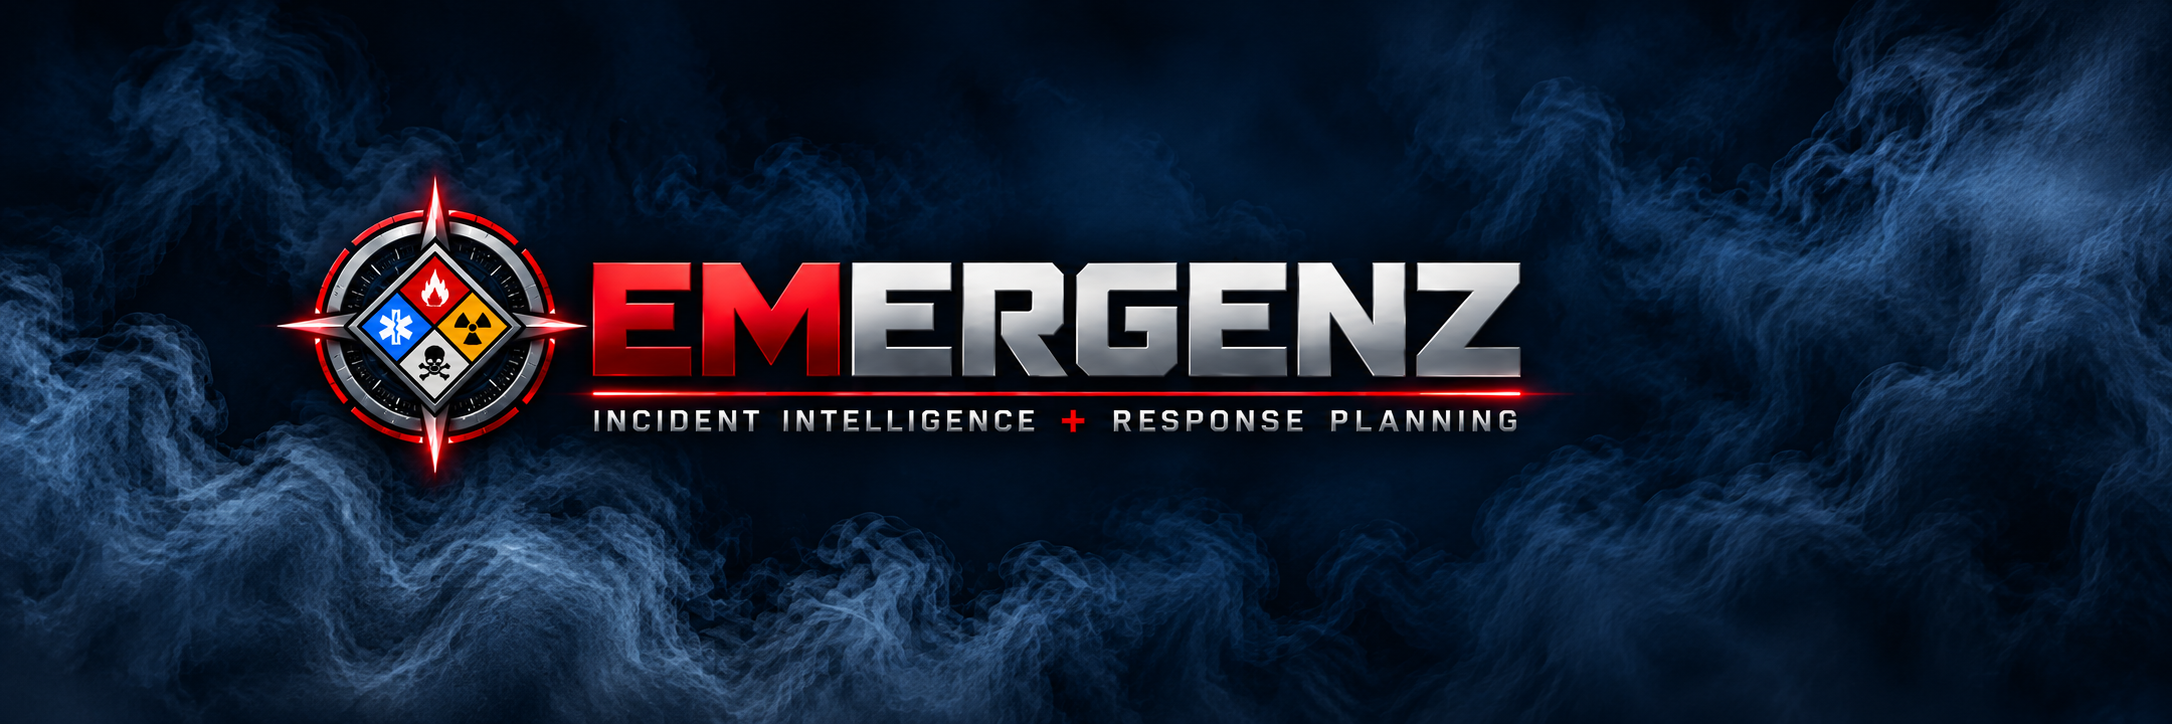
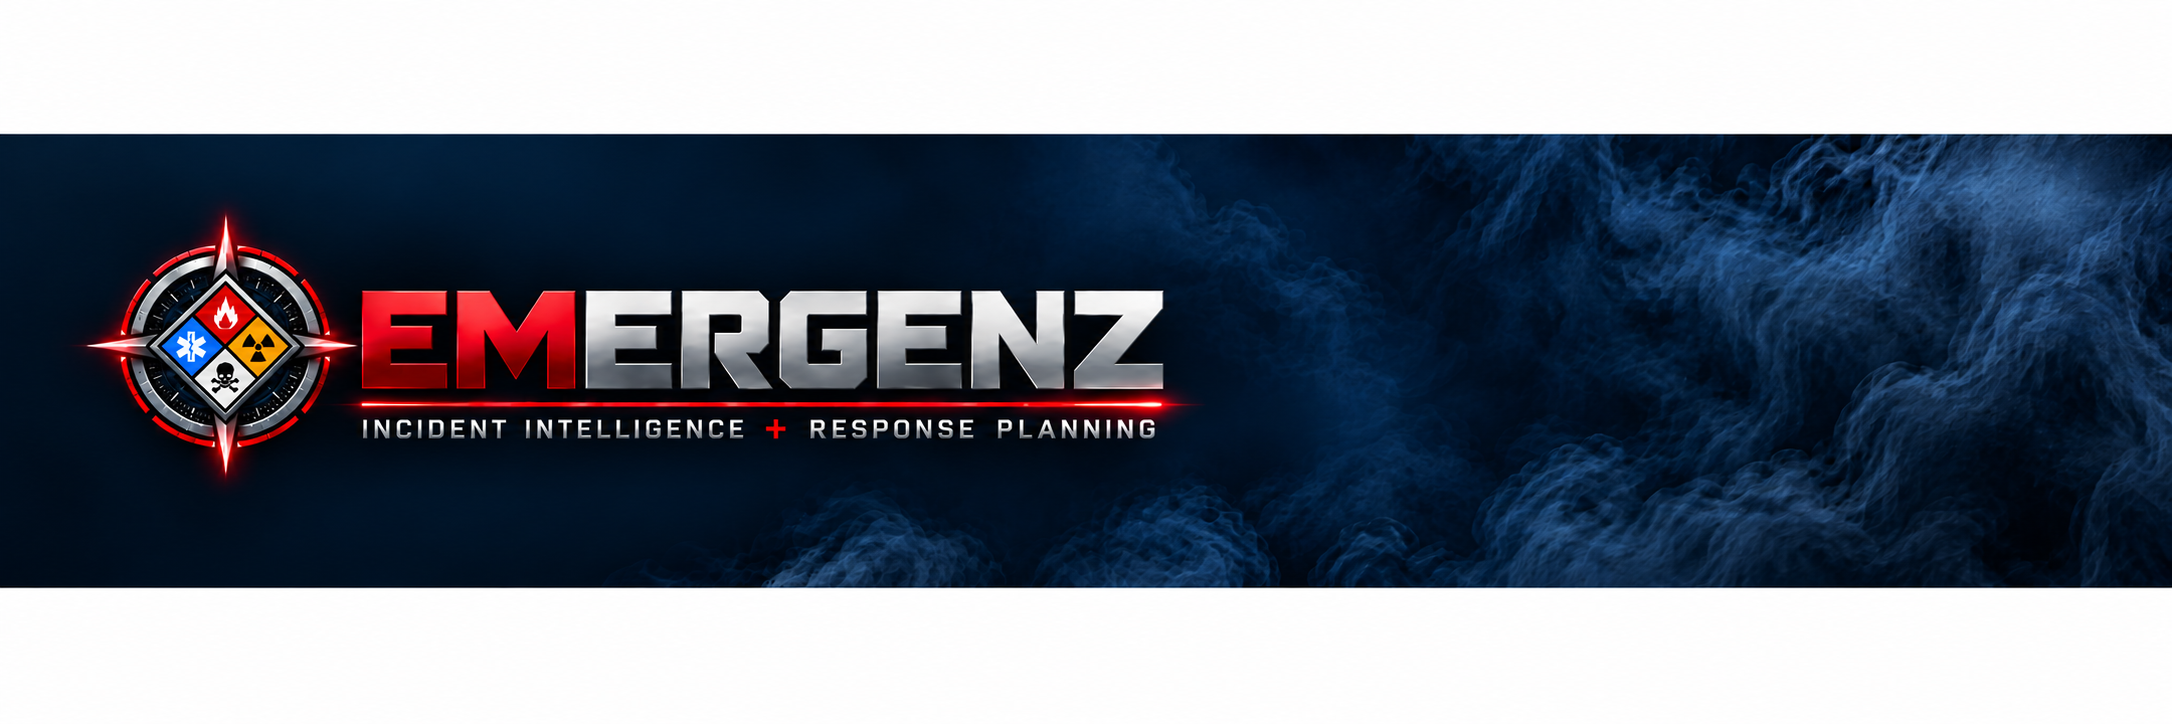
Refine EMERGENZ hero header and update navigation/header tests

diff --git a/server/public/index.html b/server/public/index.html
@@ -25,7 +25,7 @@
         <div class="hazmat-command-identity">
           <div class="brand">
             <button class="module-btn command-brand-home" id="command-brand-home" type="button" aria-label="Return to the EMERGENZ Home Page" title="Return to EMERGENZ Home">
-              <img class="brand-logo-command" src="assets/emergenz-hero-header.png?v=2" alt="EMERGENZ — Incident Intelligence + Response Planning" />
+              <img class="brand-logo-command" src="assets/emergenz-hero-header.png?v=3" alt="EMERGENZ — Incident Intelligence + Response Planning" />
             </button>
           </div>
         </div>
@@ -69,7 +69,7 @@
           <button class="workspace-drawer-close" id="workspace-drawer-close" type="button" aria-label="Close workspace navigation">Close</button>
         </header>
         <nav class="workspace-drawer-nav" aria-label="Workspace navigation">
-          <button class="workspace-drawer-home" type="button" data-view="overview" aria-label="Return to the EMERGENZ Home Page" title="Return to EMERGENZ Home"><img src="assets/emergenz-hero-header.png?v=2" alt="EMERGENZ — Incident Intelligence + Response Planning" /></button>
+          <button class="workspace-drawer-home" type="button" data-view="overview" aria-label="Return to the EMERGENZ Home Page" title="Return to EMERGENZ Home"><img src="assets/emergenz-hero-header.png?v=3" alt="EMERGENZ — Incident Intelligence + Response Planning" /></button>
           <button class="module-btn" data-view="incident">INCIDENT COMMAND</button>
           <button class="module-btn" data-view="lookup">HAZARD ID</button>
           <button class="module-btn" data-view="plume">PLUME MODELING</button>
@@ -638,7 +638,7 @@
             <header class="hazmat-page-hero variant-chemical hazard-id-page-hero" id="hazard-id-search-hero">
               <span class="hazard-id-hero-atmosphere" aria-hidden="true"></span>
               <div class="hazmat-page-hero-content">
-                        <img class="hazard-id-hero-logo" src="assets/emergenz-hero-header.png?v=2" alt="EMERGENZ — Incident Intelligence + Response Planning" hidden />
+                        <img class="hazard-id-hero-logo" src="assets/emergenz-hero-header.png?v=3" alt="EMERGENZ — Incident Intelligence + Response Planning" hidden />
                 <h1 class="hazmat-hero-title">HAZARD ID</h1>
                 <p class="hazmat-hero-subtitle">Search, Identify, Verify, Respond.</p>
               </div>
@@ -863,7 +863,7 @@
           <section id="guided-response" class="view guided-response-page" data-page-root="guided-response" data-page-name="Guided Response">
             <header class="hazmat-page-hero variant-guided-response guided-response-heading">
               <div class="guided-response-brand">
-                <img class="guided-response-logo" src="assets/emergenz-hero-header.png?v=2" alt="EMERGENZ — Incident Intelligence + Response Planning" hidden />
+                <img class="guided-response-logo" src="assets/emergenz-hero-header.png?v=3" alt="EMERGENZ — Incident Intelligence + Response Planning" hidden />
                 <div class="hazmat-page-hero-content">
                   <h1 class="hazmat-hero-title">Guided Response</h1>
                   <p class="hazmat-hero-subtitle">Tactical Decision Support.</p>

diff --git a/test/guided-response-ui.test.ts b/test/guided-response-ui.test.ts
@@ -106,7 +106,7 @@ describe("Guided Response workflow", () => {
 
   it("provides the new view, required actions, and compact disclaimers", () => {
     expect(html).toContain('id="guided-response" class="view guided-response-page"');
-    expect(guidedHtml).toContain('class="guided-response-logo" src="assets/emergenz-hero-header.png?v=2"');
+    expect(guidedHtml).toContain('class="guided-response-logo" src="assets/emergenz-hero-header.png?v=3"');
     expect(guidedHtml).toMatch(/guided-response-logo[^>]*>[\s\S]*<div class="hazmat-page-hero-content">[\s\S]*<h1 class="hazmat-hero-title">Guided Response<\/h1>/s);
     expect(guidedHtml).toContain('Command Actions');
     for (const id of [

diff --git a/test/global-navigation-headers.test.ts b/test/global-navigation-headers.test.ts
@@ -50,7 +50,7 @@ describe('global navigation and page header contract', () => {
     expect(html).not.toContain('Real-time data. Actionable intelligence. Safer decisions.');
     expect(html).not.toContain('class="internal-command-menu"');
     expect(html).not.toContain('class="app-header-status"');
-    expect(html).toContain('class="brand-logo-command" src="assets/emergenz-hero-header.png?v=2"');
+    expect(html).toContain('class="brand-logo-command" src="assets/emergenz-hero-header.png?v=3"');
     expect(html).toContain('>Pre-Incident Planning</h1>');
     expect(html).toContain('>Incident Command</h1>');
     expect(html).toContain('>Sources</h1>');

diff --git a/test/notification-center.test.ts b/test/notification-center.test.ts
@@ -149,7 +149,7 @@ describe("HazMatIQ Command Bar", () => {
     expect(html).toContain('id="command-menu-toggle"');
     expect(html).toContain('id="workspace-navigation-drawer"');
     expect(html).toContain('class="brand-logo-command"');
-    expect(html).toContain('src="assets/emergenz-hero-header.png?v=2"');
+    expect(html).toContain('src="assets/emergenz-hero-header.png?v=3"');
     const commandHeader = html.slice(
       html.indexOf('<header class="topbar hazmat-command-bar command-header">'),
       html.indexOf('</header>'),

diff --git a/server/public/global-ui-overrides.css b/server/public/global-ui-overrides.css
@@ -1207,7 +1207,7 @@ body:has(#overview.view.active) .workspace-navigation-drawer.workspace-drawer-ho
     margin: 0 !important;
     padding: 0 !important;
     overflow: hidden !important;
-    background: #061a2e url("assets/emergenz-hero-header.png?v=2") center center / cover no-repeat !important;
+    background: #061a2e url("assets/emergenz-hero-header.png?v=3") center center / cover no-repeat !important;
   }
 
   .app-shell:has(#overview.view.active) > .command-header .command-brand-home.module-btn {

diff --git a/test/incident-flow-hazard-profile.test.ts b/test/incident-flow-hazard-profile.test.ts
@@ -86,7 +86,7 @@ describe("Incident decision flow and Hazard ID profile loading", () => {
   });
 
   it("uses the transparent HAZMATIQ artwork on Guided Response", () => {
-    expect(html).toContain('class="guided-response-logo" src="assets/emergenz-hero-header.png?v=2"');
+    expect(html).toContain('class="guided-response-logo" src="assets/emergenz-hero-header.png?v=3"');
   });
 
   it("maps selected chemical profile fields into every operational consumer", () => {
